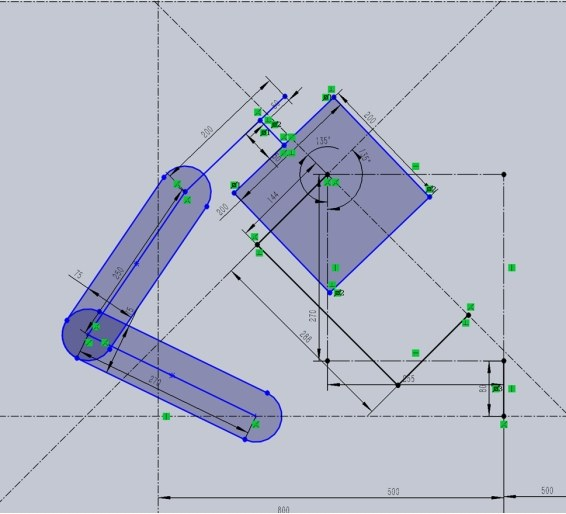
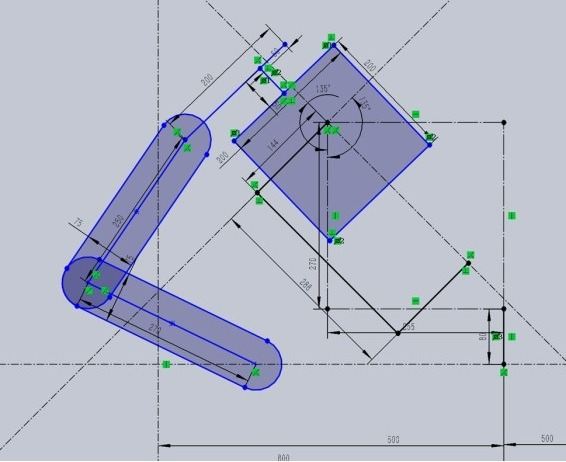
Let plate figures keep their own height, and crop the link sketch to match
The plate grid stretched each figure to a common height so the two
captions bottom-aligned. When the images differ in aspect the shorter
figure grows an empty caption instead - a dark slab under the picture.
Each figure now takes its natural height and the grid aligns at the top.

fig_links.jpg is recropped to 566x462, which is what the page has been
declaring; it was still serving the 566x514 original and shifting on load.

diff --git a/style.css b/style.css
@@ -499,11 +499,16 @@ footer a{ margin-right:1.4rem; display:inline-block; }
    anything on screen. Flagged here because this rule is NOT home-page-scoped. */
 footer a{ padding:.4rem 0; }
 
-/* ---------- figure plate: two natural-aspect figures, captions bottom-aligned ---------- */
-.plate{ display:grid; gap:clamp(1rem,2vw,1.5rem); grid-template-columns:1fr; margin-top:1.8rem; }
+/* ---------- figure plate: two natural-aspect figures side by side ----------
+   The captions used to stretch (flex:1 1 auto + height:100%) so both bottoms
+   lined up. That only reads well when the two images are close to the same
+   aspect; when they are not, the shorter figure grows a tall empty caption —
+   a dark slab under the picture. Each figure now takes its own height and the
+   grid aligns them at the top instead. */
+.plate{ display:grid; gap:clamp(1rem,2vw,1.5rem); grid-template-columns:1fr;
+        margin-top:1.8rem; align-items:start; }
 @media (min-width:760px){ .plate{ grid-template-columns:1fr 1fr; } }
-.plate figure{ margin:0; display:flex; flex-direction:column; height:100%; }
-.plate figcaption{ flex:1 1 auto; }
+.plate figure{ margin:0; }
 .plate img{ width:100%; }
 /* figures lifted straight out of the paper keep their own white ground */
 .paper img{ background:#fbfbf9; padding:.85rem; }
